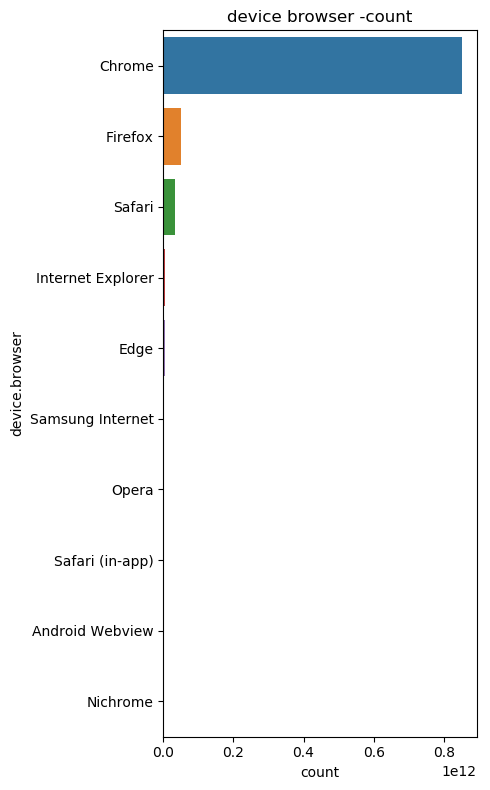
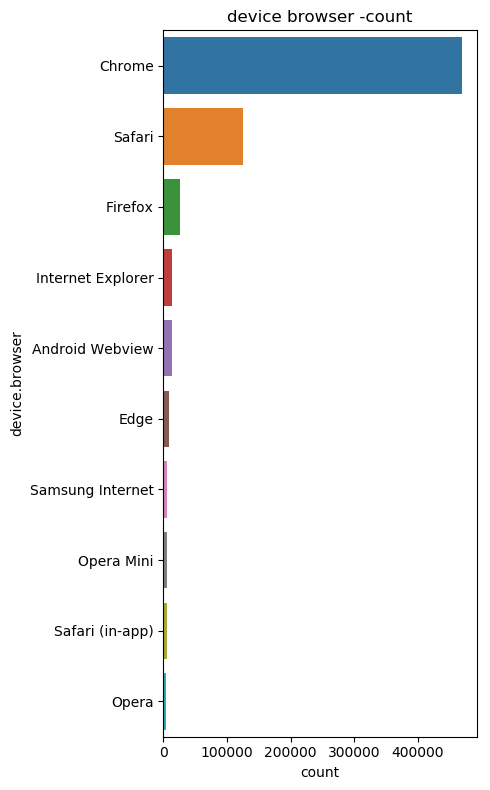
updated graphs; removing imputation code

diff --git a/eda.py b/eda.py
@@ -25,7 +25,8 @@ target_variable_exploration(train_df)
 cols, train_df = drop_constant_cols(train_df)
 
 # imputing 0 for missing target values
-train_df['totals.transactionRevenue'].fillna(0, inplace=True)
+# train_df['totals.transactionRevenue'].fillna(0, inplace=True)
+
 print("Shape of Training dataframe after dropping constant columns: {}".format(train_df.shape))
 
 # Browser Category
@@ -51,7 +52,7 @@ def extract_plots(df, top, l):
 	for col in l:
 		name = col.replace(".", " ")
 		print(name)
-		cnt_srs = df.groupby(col)['totals.transactionRevenue'].agg(['sum', 'count', 'mean'])
+		cnt_srs = df.groupby(col)['totals.transactionRevenue'].agg(['size', 'count', 'mean'])
 		cnt_srs.columns = ["count", "count of non-zero revenue", "mean"]
 		cnt_srs = cnt_srs.sort_values(by="count", ascending=False)[:top]
 		print(cnt_srs.head(top))
